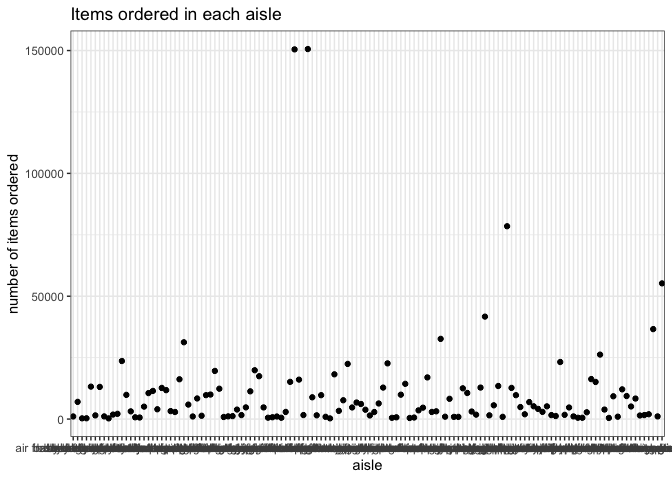
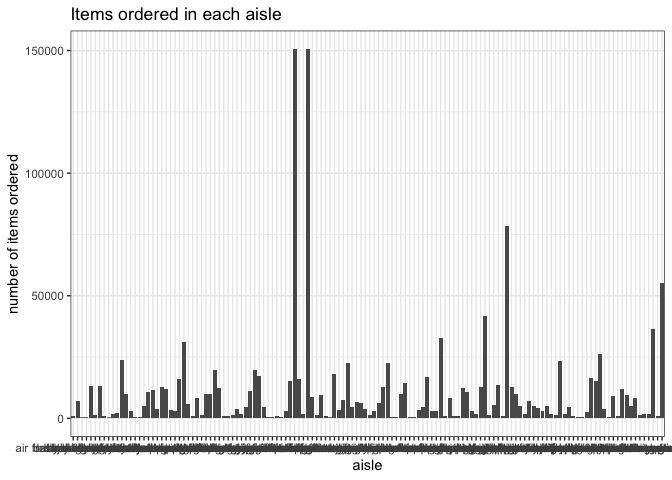
Installed hexbin package, all is well with the last plot

Changed region(s): [[0.0938, 0.0938, 1.0, 0.875], [0.0312, 0.5938, 0.0938, 0.625]]

diff --git a/p8105_hw3_tj2383.md b/p8105_hw3_tj2383.md
@@ -239,7 +239,7 @@ instacart_data %>%
   group_by(aisle) %>% 
   summarize(amount_ordered = n()) %>% 
   ggplot(aes(x = aisle, y = amount_ordered)) + 
-  geom_point() +
+  geom_col() +
   labs(
      title = "Items ordered in each aisle",
      x = "aisle",
@@ -249,7 +249,7 @@ instacart_data %>%
     theme(legend.position = "bottom")
 ```
 
-![](p8105_hw3_tj2383_files/figure-markdown_github/unnamed-chunk-8-1.png) This plot is able to easily shows us which aisles the most number of orders are coming from.
+![](p8105_hw3_tj2383_files/figure-markdown_github/unnamed-chunk-8-1.png) This plot is able to easily shows us which aisles the most number of orders are coming from. The largest peak is for fresh vegetables fresh fruits, so we know that the most orders come from this aisle.
 
 In the following code chunk I create a table of the most popular item in the aisles `baking ingredients`, `dog food care`, and `packaged vegetables and fruits`.
 
@@ -468,10 +468,6 @@ snowfall_plot = ny_noaa_data %>%
 
 t_max_min_plot / snowfall_plot
 ```
-
-    ## Warning: Computation failed in `stat_binhex()`:
-    ## Package `hexbin` required for `stat_binhex`.
-    ## Please install and try again.
 
 ![](p8105_hw3_tj2383_files/figure-markdown_github/unnamed-chunk-14-1.png)
 
